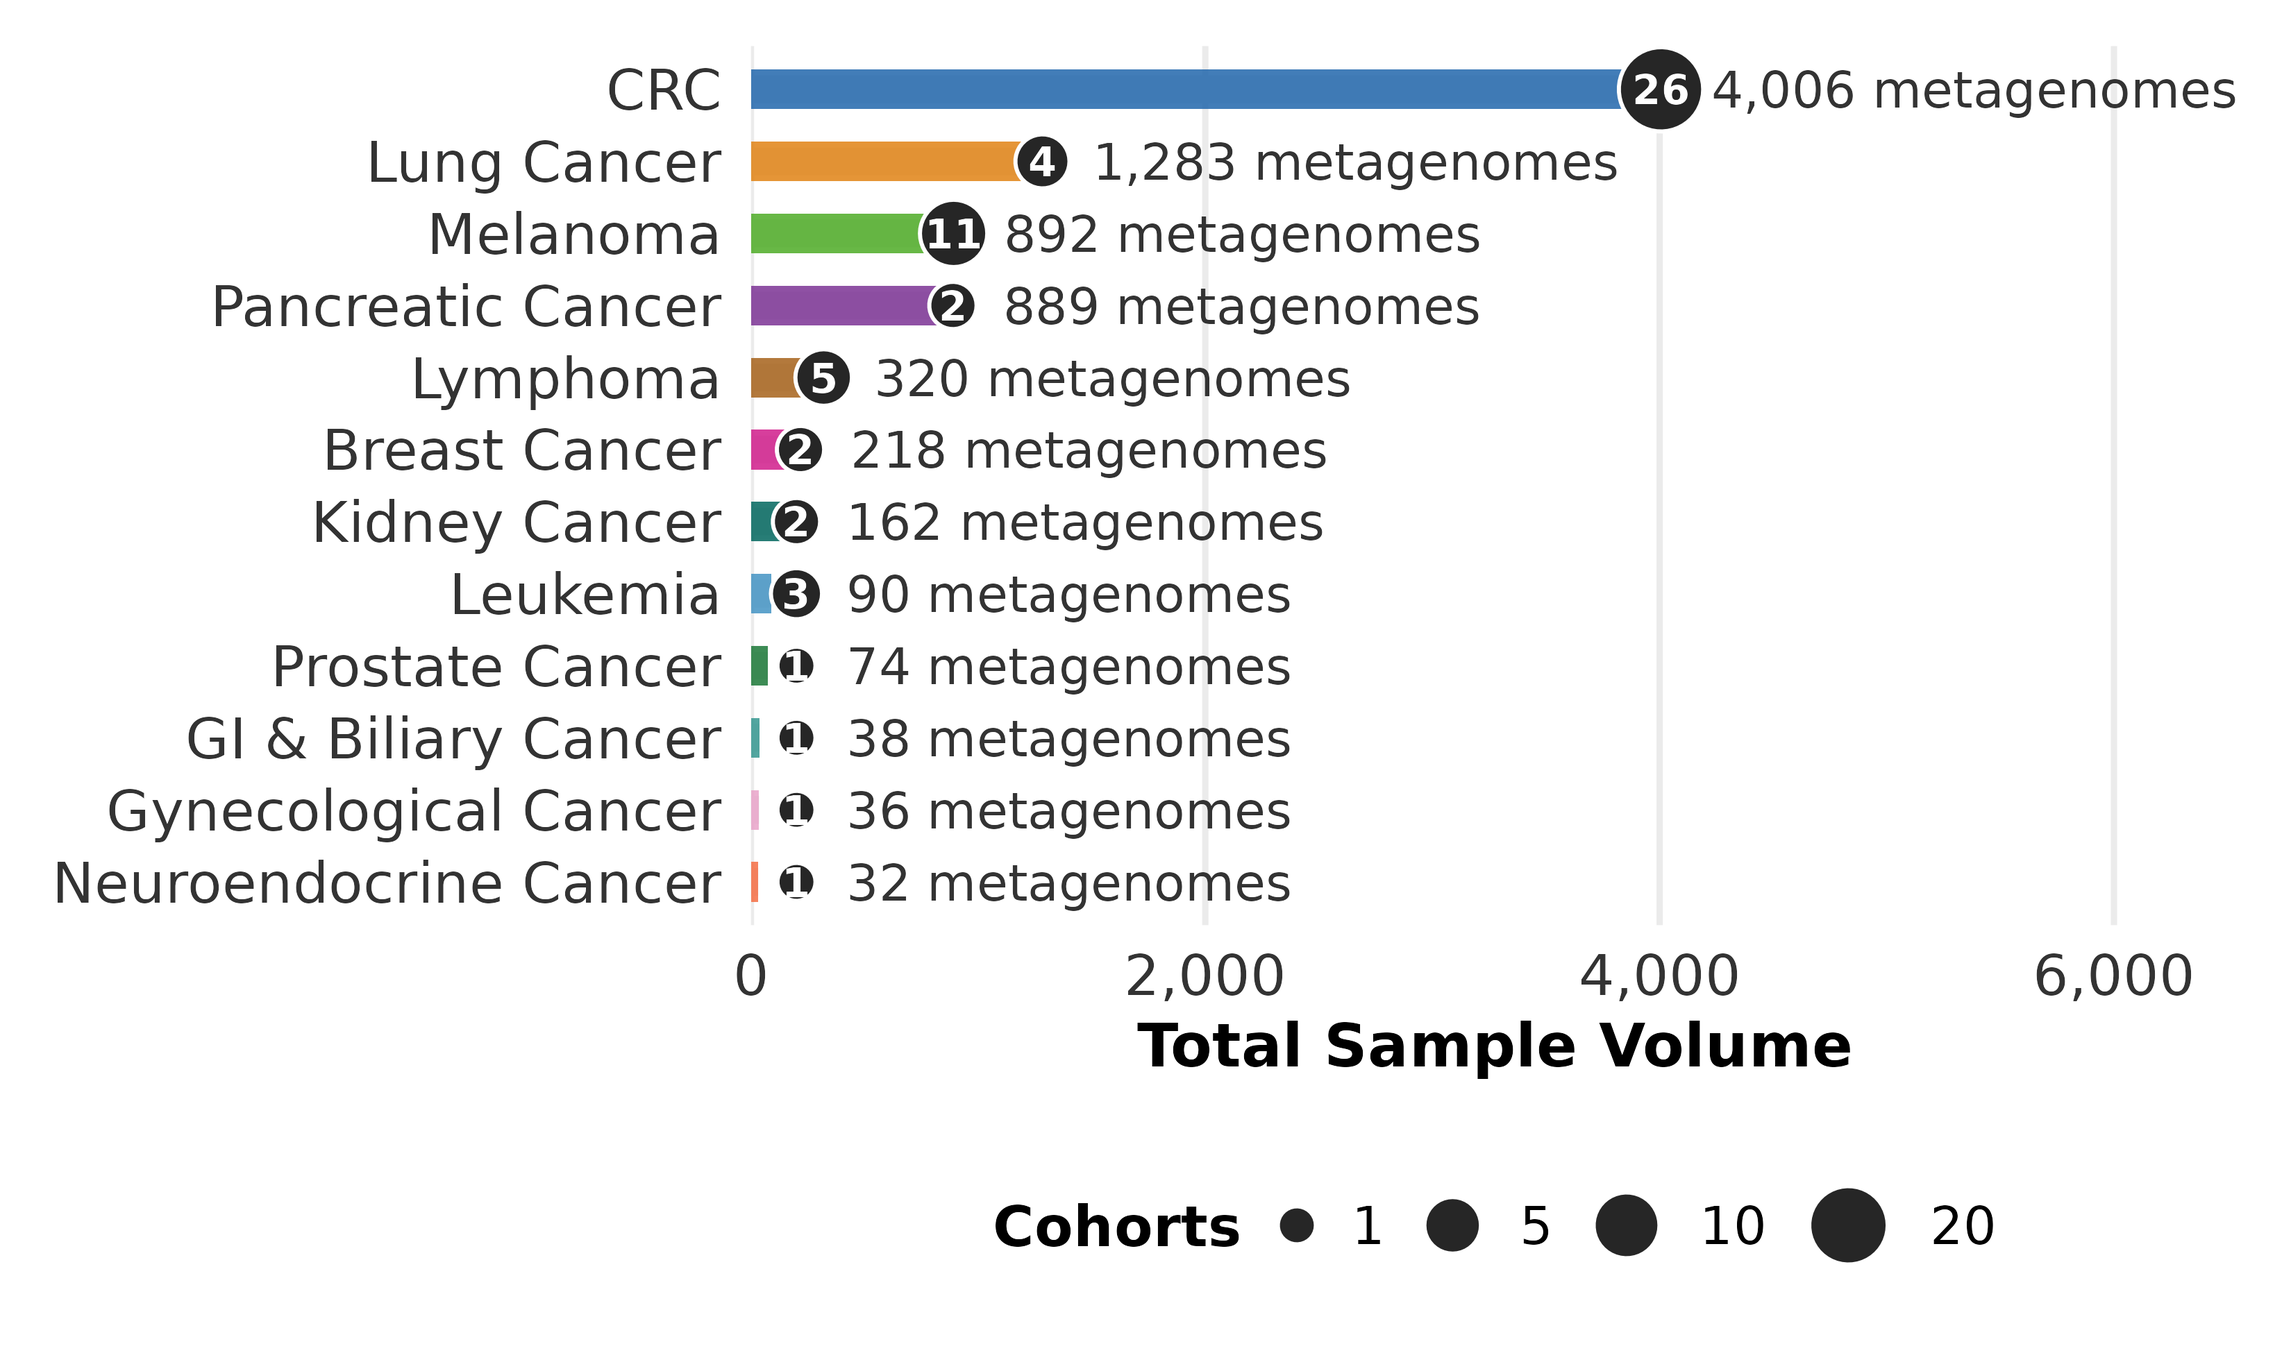
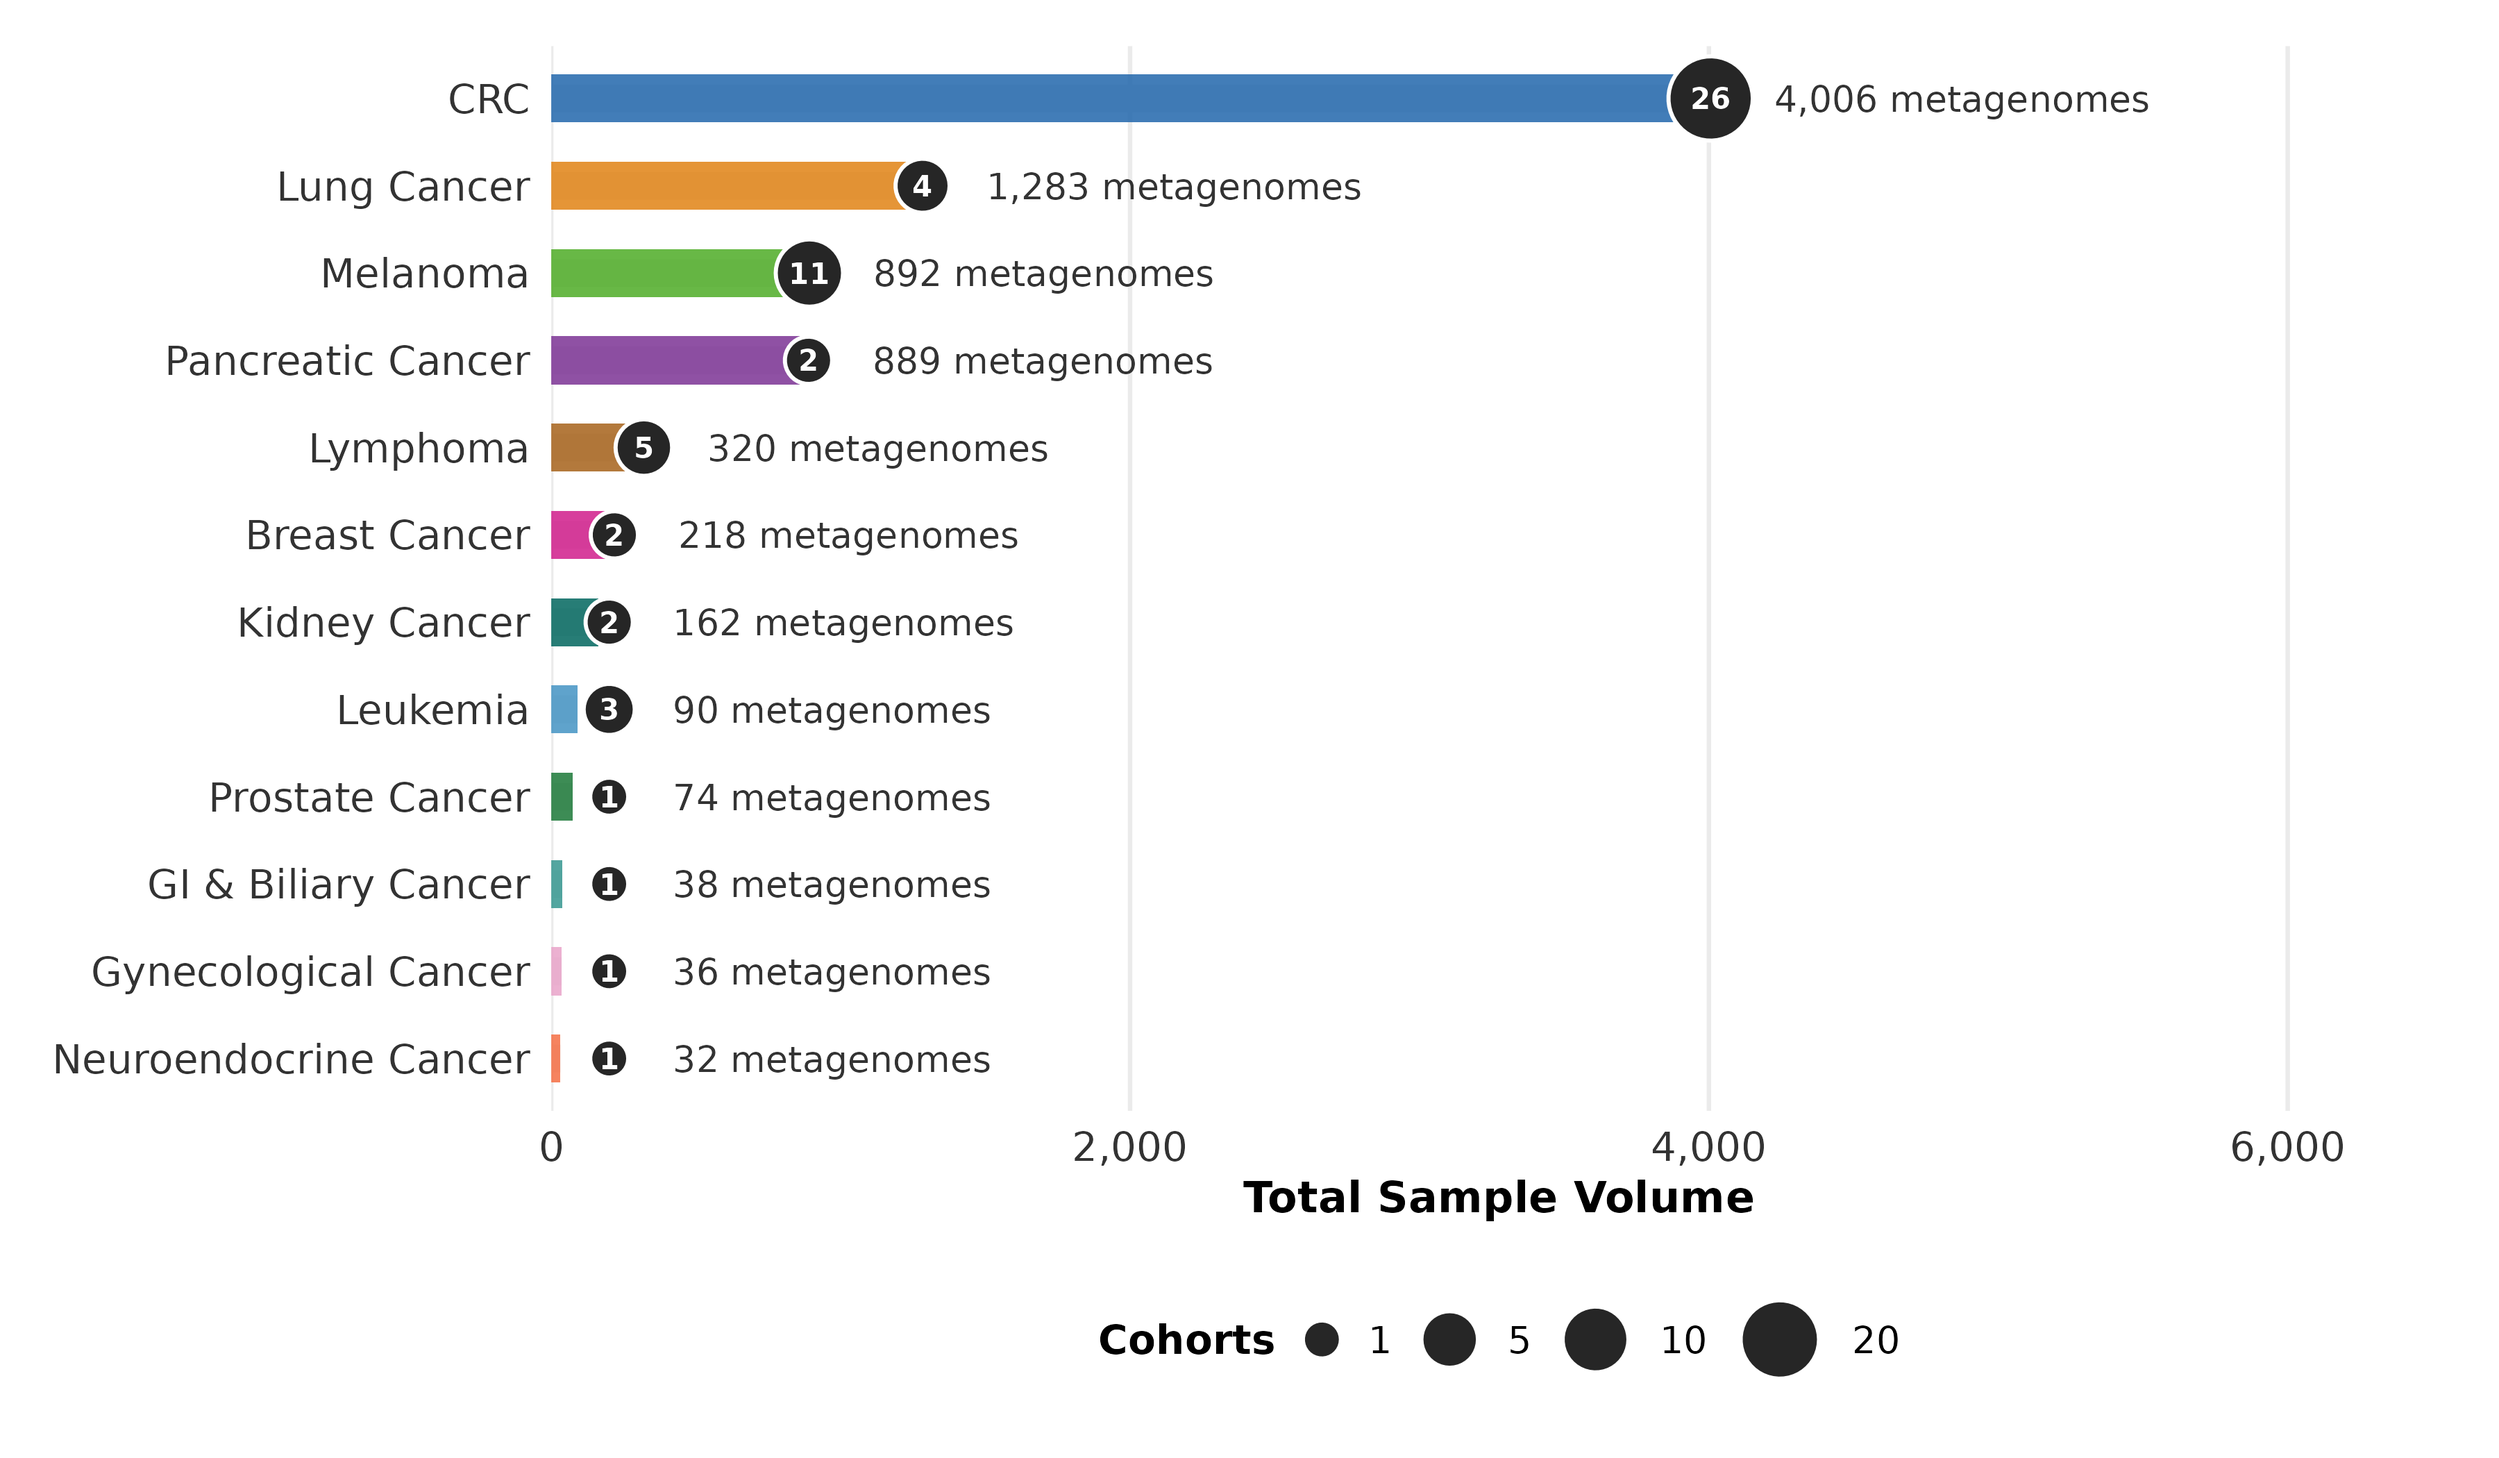
Clean rewrite of generate_figures.R with proper inset

diff --git a/index.html b/index.html
@@ -459,7 +459,7 @@
 
 
 <h1 id="curatedmetagenomicdata-cancer-datasets-overview">curatedMetagenomicData -- Cancer Datasets Overview</h1>
-<p><em>Last updated: 2026-08-07 09:54 UTC</em></p>
+<p><em>Last updated: 2026-08-07 09:57 UTC</em></p>
 <h2 id="summary">Summary</h2>
 <table>
 <thead>
